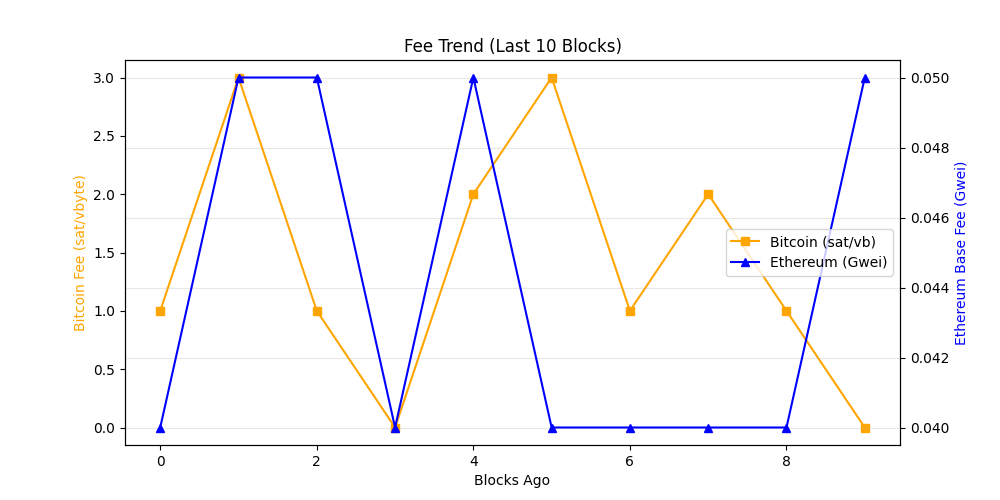
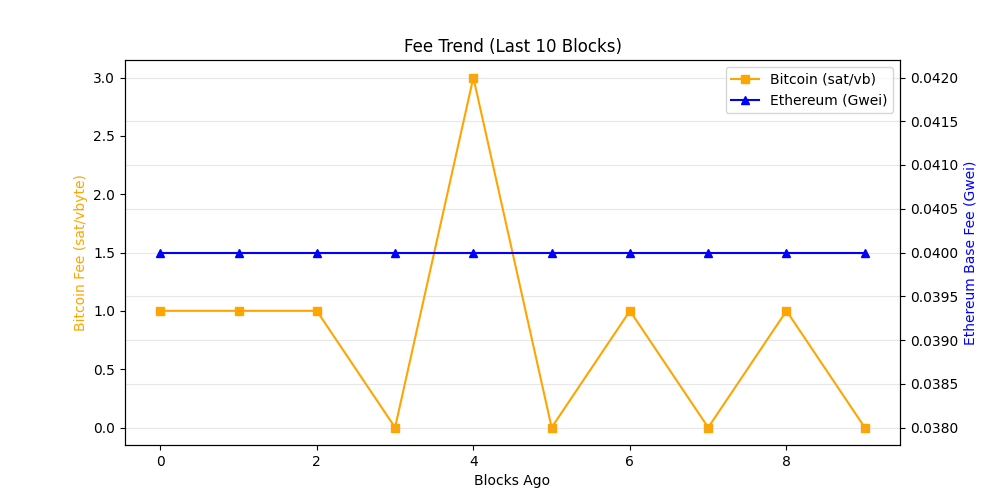
chore: update on-chain dashboard

diff --git a/README.md b/README.md
@@ -19,7 +19,7 @@ The README itself acts as the dashboard and is regenerated automatically on a 6 
 demonstrating a production-style, infrastructure-focused observability workflow rather
 than a traditional UI-driven approach.
 
-_Last updated: 2026-11-07 12:57 UTC_
+_Last updated: 2026-11-07 21:47 UTC_
 
 ## API Usage (GetBlock.io)
 - Calls used: **24**
@@ -27,8 +27,8 @@ _Last updated: 2026-11-07 12:57 UTC_
 ## Network Metrics
 | Chain | Block Height | TX Count | TPS (10 blk avg) | Block Util | Avg Fee |
 |------|-------------|----------|------------------|------------|---------|
-| Ethereum | 26363119 | 241 | 20.08 | 62.7% | 0.1 Gwei |
-| Bitcoin | 974935 | 6170 | 28.97 | 99.84% | N/A |
+| Ethereum | 26365762 | 213 | 17.75 | 44.96% | 0.0 Gwei |
+| Bitcoin | 974990 | 7199 | 146.92 | 99.8% | N/A |
 
 ## Visuals
 ### Transactions Trend
@@ -43,8 +43,8 @@ _Last updated: 2026-11-07 12:57 UTC_
 ## Whale Alerts (latest block)
 - Transaction hashes are truncated for readability.
 - Full hashes are available in `dashboards/metrics.json`
-- Bitcoin | 100.87 BTC | `f67c1dcd2445…`
-- Bitcoin | 306.31 BTC | `d2ce4c75a7a2…`
+- Bitcoin | 250.0 BTC | `3e91cc43eb4f…`
+- Bitcoin | 276.86 BTC | `a0510c16f547…`
 
 ## Run locally
 
